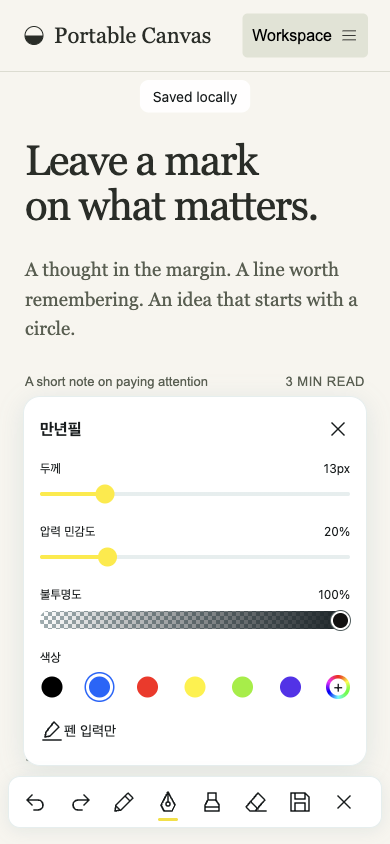
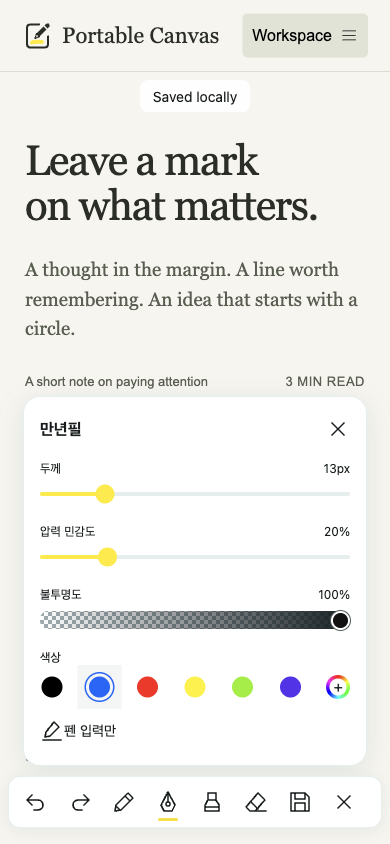
Add canvas and pen SVG brand mark

Changed region(s): [[0.0615, 0.0308, 0.5538, 0.0616]]

diff --git a/demo.html b/demo.html
@@ -4,15 +4,13 @@
     <meta charset="utf-8" />
     <meta name="viewport" content="width=device-width,initial-scale=1" />
     <title>Portable Canvas — a place for your thinking</title>
+    <link rel="icon" href="favicon.svg" type="image/svg+xml" />
     <link rel="stylesheet" href="style.css" />
   </head>
   <body>
     <header>
       <a class="brand" href="./"
-        ><svg width="24" height="24" viewBox="0 0 24 24" aria-hidden="true">
-          <circle cx="12" cy="12" r="9" fill="none" stroke="currentColor" />
-          <path d="M3 12h18a9 9 0 0 1-18 0" fill="currentColor" />
-        </svg>
+        ><img src="logo.svg" width="32" height="32" alt="" />
         Portable Canvas</a
       ><span class="tag">YOUR WEB, IN YOUR HANDWRITING</span
       ><button id="menu" aria-expanded="false" aria-controls="sidebar">

diff --git a/index.html b/index.html
@@ -16,10 +16,7 @@
     <a class="skip" href="#main">본문으로 건너뛰기</a>
     <header class="top">
       <a class="brand" href="./" aria-label="Portable Canvas 홈"
-        ><svg width="24" height="24" viewBox="0 0 24 24" aria-hidden="true">
-          <circle cx="12" cy="12" r="9" fill="none" stroke="currentColor" />
-          <path d="M3 12h18a9 9 0 0 1-18 0" fill="currentColor" />
-        </svg>
+        ><img src="logo.svg" width="32" height="32" alt="" />
         Portable Canvas</a
       >
       <nav aria-label="주요 링크">
